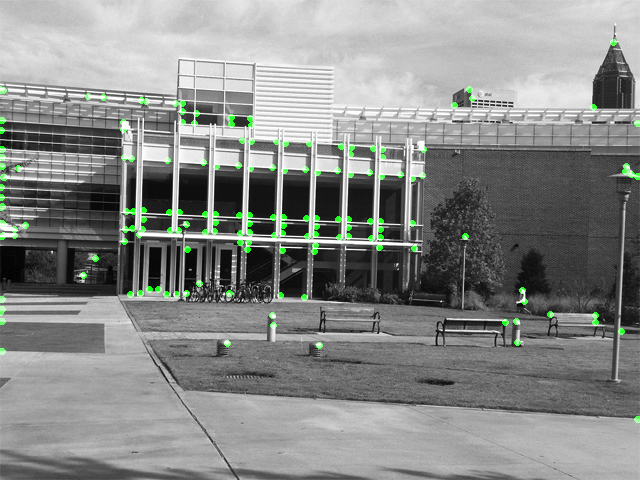
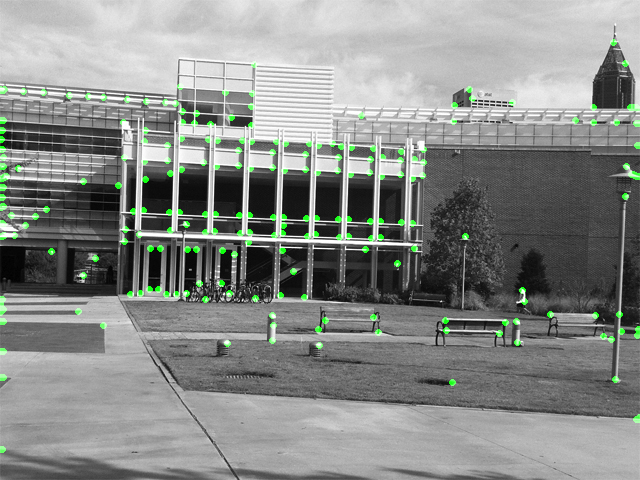
completing PS4 part 2

diff --git a/ps4_matlab/ps4.m b/ps4_matlab/ps4.m
@@ -83,7 +83,7 @@ imwrite(simB_Rmat_disp,'./output/ps4-1-b-4.png')
 
 %% 1-c not-local-maxima suppression and marking corners
 
-local_size = 9;
+local_size = 15;
 transA_Rsup = local_nonmax_suppress(transA_Rmat, local_size);
 simA_Rsup = local_nonmax_suppress(simA_Rmat, local_size);
 transB_Rsup = local_nonmax_suppress(transB_Rmat, local_size);
@@ -112,20 +112,79 @@ imwrite(simA_newdisp,'./output/ps4-1-c-3.png')
 imwrite(simB_newdisp,'./output/ps4-1-c-4.png')
 
 
-%%
+%% Part 2: SIFT descriptor 
+% 2-a plot the assigned orientation
+
+transA_grad_dir = atan2(transA_y,transA_x);
+transB_grad_dir = atan2(transB_y,transB_x);
+
+transA_fc = prep_fc_for_sift(transA_Rsup,transA_grad_dir,10);
+transB_fc = prep_fc_for_sift(transB_Rsup,transB_grad_dir,8);
+
+[transA_f,transA_d] = vl_sift(single(transA*255),'frames',transA_fc);
+[transB_f,transB_d] = vl_sift(single(transB*255),'frames',transB_fc);
+
+figure(5)
+tightsubplot(1,2,1);
+imshow(transA)
+h = vl_plotframe(transA_f); set(h,'color','cyan','linewidth',1) ;
+tightsubplot(1,2,2);
+imshow(transB)
+h = vl_plotframe(transB_f); set(h,'color','cyan','linewidth',1) ;
+
+print(gcf, '-dpng', './output/ps4-2-a-1.png')
 
 
+simA_grad_dir = atan2(simA_y,simA_x);
+simB_grad_dir = atan2(simB_y,simB_x);
+
+simA_fc = prep_fc_for_sift(simA_Rsup,simA_grad_dir,8);
+simB_fc = prep_fc_for_sift(simB_Rsup,simB_grad_dir,8);
+
+[simA_f,simA_d] = vl_sift(single(simA*255),'frames',simA_fc);
+[simB_f,simB_d] = vl_sift(single(simB*255),'frames',simB_fc);
+
+figure(6)
+tightsubplot(1,2,1);
+imshow(simA)
+h = vl_plotframe(simA_f); set(h,'color','cyan','linewidth',1) ;
+tightsubplot(1,2,2);
+imshow(simB)
+h = vl_plotframe(simB_f); set(h,'color','cyan','linewidth',1) ;
+
+print(gcf, '-dpng', './output/ps4-2-a-2.png')
 
 
+%% 2-b find putative matches
 
+[trans_matches,trans_scores] = vl_ubcmatch(transA_d,transB_d);
+trans_combined = [transA transB];
+figure(7)
+tightsubplot(1,1,1);
+imshow(trans_combined)
+hold on
+for i = 1:size(trans_matches,2)
+    plot([transA_fc(1,trans_matches(1,i)) size(transA,2)+transB_fc(1,trans_matches(2,i))],...
+    [transA_fc(2,trans_matches(1,i)) transB_fc(2,trans_matches(2,i))],'cyan','linewidth',1);
+end
 
+print(gcf, '-dpng', './output/ps4-2-b-1.png')
 
+[sim_matches,sim_scores] = vl_ubcmatch(simA_d,simB_d);
+sim_combined = [simA simB];
 
+figure(8)
+tightsubplot(1,1,1);
+imshow(sim_combined)
+hold on
+for i = 1:size(sim_matches,2)
+    plot([simA_fc(1,sim_matches(1,i)) size(simA,2)+simB_fc(1,sim_matches(2,i))],...
+    [simA_fc(2,sim_matches(1,i)) simB_fc(2,sim_matches(2,i))],'cyan','linewidth',1);
+end
 
+print(gcf, '-dpng', './output/ps4-2-b-2.png')
 
-
-
-
+%% Part 3: RANSAC
 
 
 

diff --git a/ps4_matlab/prep_fc_for_sift.m b/ps4_matlab/prep_fc_for_sift.m
@@ -1,0 +1,12 @@
+%% calculate the input "fc" for VLFeat the impletementation of SIFT
+% Input R value image (local non-minima suppressed), graidient direction as
+% well as a scale constant.
+% fc will have size (4, N), where N is your number of interest points
+% each column should be like this: [100;200;10;-pi/8] 
+function fc = prep_fc_for_sift(R,grad_dir,scale)
+    [x_grid ,y_grid] = meshgrid(1:size(R,2),1:size(R,1));
+    fc = [x_grid(R>0) y_grid(R>0)];
+    fc = [fc ones(size(fc,1),1)*scale];
+    fc = [fc grad_dir(R>0)];
+    fc = fc';
+end

diff --git a/ps4_matlab/discarded_script.m b/ps4_matlab/discarded_script.m
@@ -30,3 +30,12 @@ B3x = uint8(zeros(size(B)));
 B3x(:,1:end-1) = B(:,2:end) - B(:,1:end-1);  
 % B3x(:,2:end) = B(:,2:end) - B(:,1:end-1);  
 % B3x = imfilter(B,diff_x);
+
+
+%% plot sift descriptor "frame" direction histograms
+
+
+[f,d] = vl_sift(single(transA*255),'frames',fc);
+perm = randperm(size(f,2)) ;
+sel = perm(1:5);
+h1 = vl_plotsiftdescriptor(d(:,sel),f(:,sel)); 

diff --git a/ps4_matlab/local_nonmax_suppress.m b/ps4_matlab/local_nonmax_suppress.m
@@ -3,7 +3,7 @@
 % 2) suppres elements that are not local maxima.
 function R_sup = local_nonmax_suppress(R,local_size)
 
-    th = quantile(reshape(R,1,[]),0.995);
+    th = quantile(reshape(R,1,[]),0.98);
     R_temp = R;
     R_temp(R<th) = 0;
     R_sup = zeros(size(R));    

diff --git a/README.md b/README.md
@@ -88,14 +88,40 @@ Overall procedure:
 3. Compute the R value; threshold it for corner points (my approach is a 0.995 quantile value)
 4. Apply non-local-minima filter (9x9 window etc.)
 
-Some points that cannot pick up
+Strengths:
 
-- low contrast region, such as this:
+- Rotation invariant
+- A commonly perceived problem is the scale variability. But it isn't as serious as I expect. So the scale invariant methods aren't always necessary, e.g. Harris-Laplacian method.
+- However, if you are going to use SIFT descriptor later, you will need to manually specify the scale as a parameter.
 
-  ![image-20201017192403269](C:\Users\Jacky Han\AppData\Roaming\Typora\typora-user-images\image-20201017192403269.png)
+Some corner points that a generic approach won't pick up
 
-  
+- low contrast region, such as white roof-top with greyish sky as background
+- fine details, such as legs of chairs in a far distance.
 
-- 
+### SIFT descriptor
 
-  
+Using the ```VLFeat``` library for SIFT descriptor to avoid fiddly work. Also, they have a very nice tight subplot function ```tightsubplot```:
+
+```matlab
+figure(1)
+tightsubplot(1,2,1);
+imshow(img1)
+tightsubplot(1,2,2);
+imshow(img2)
+```
+
+Two main functions are used here:
+
+1. ```vl_sift```, which takes the interest points' locations and the gradient directions as inputs, and it returns 2 variables, ```f``` and ```d```.
+   - ```f``` is known as "a frame", whose elements are x, y coordinates, scale and orientation `f(4)`
+   - Each column of ```d``` is a 128-vector for that point.
+2. ```vl_ubcmatch```, which performs the matching algorithm.
+   - Inputs are the descriptors from both images.
+
+Call help function for more detailed explanations.
+
+### RANSAC
+
+...
+
